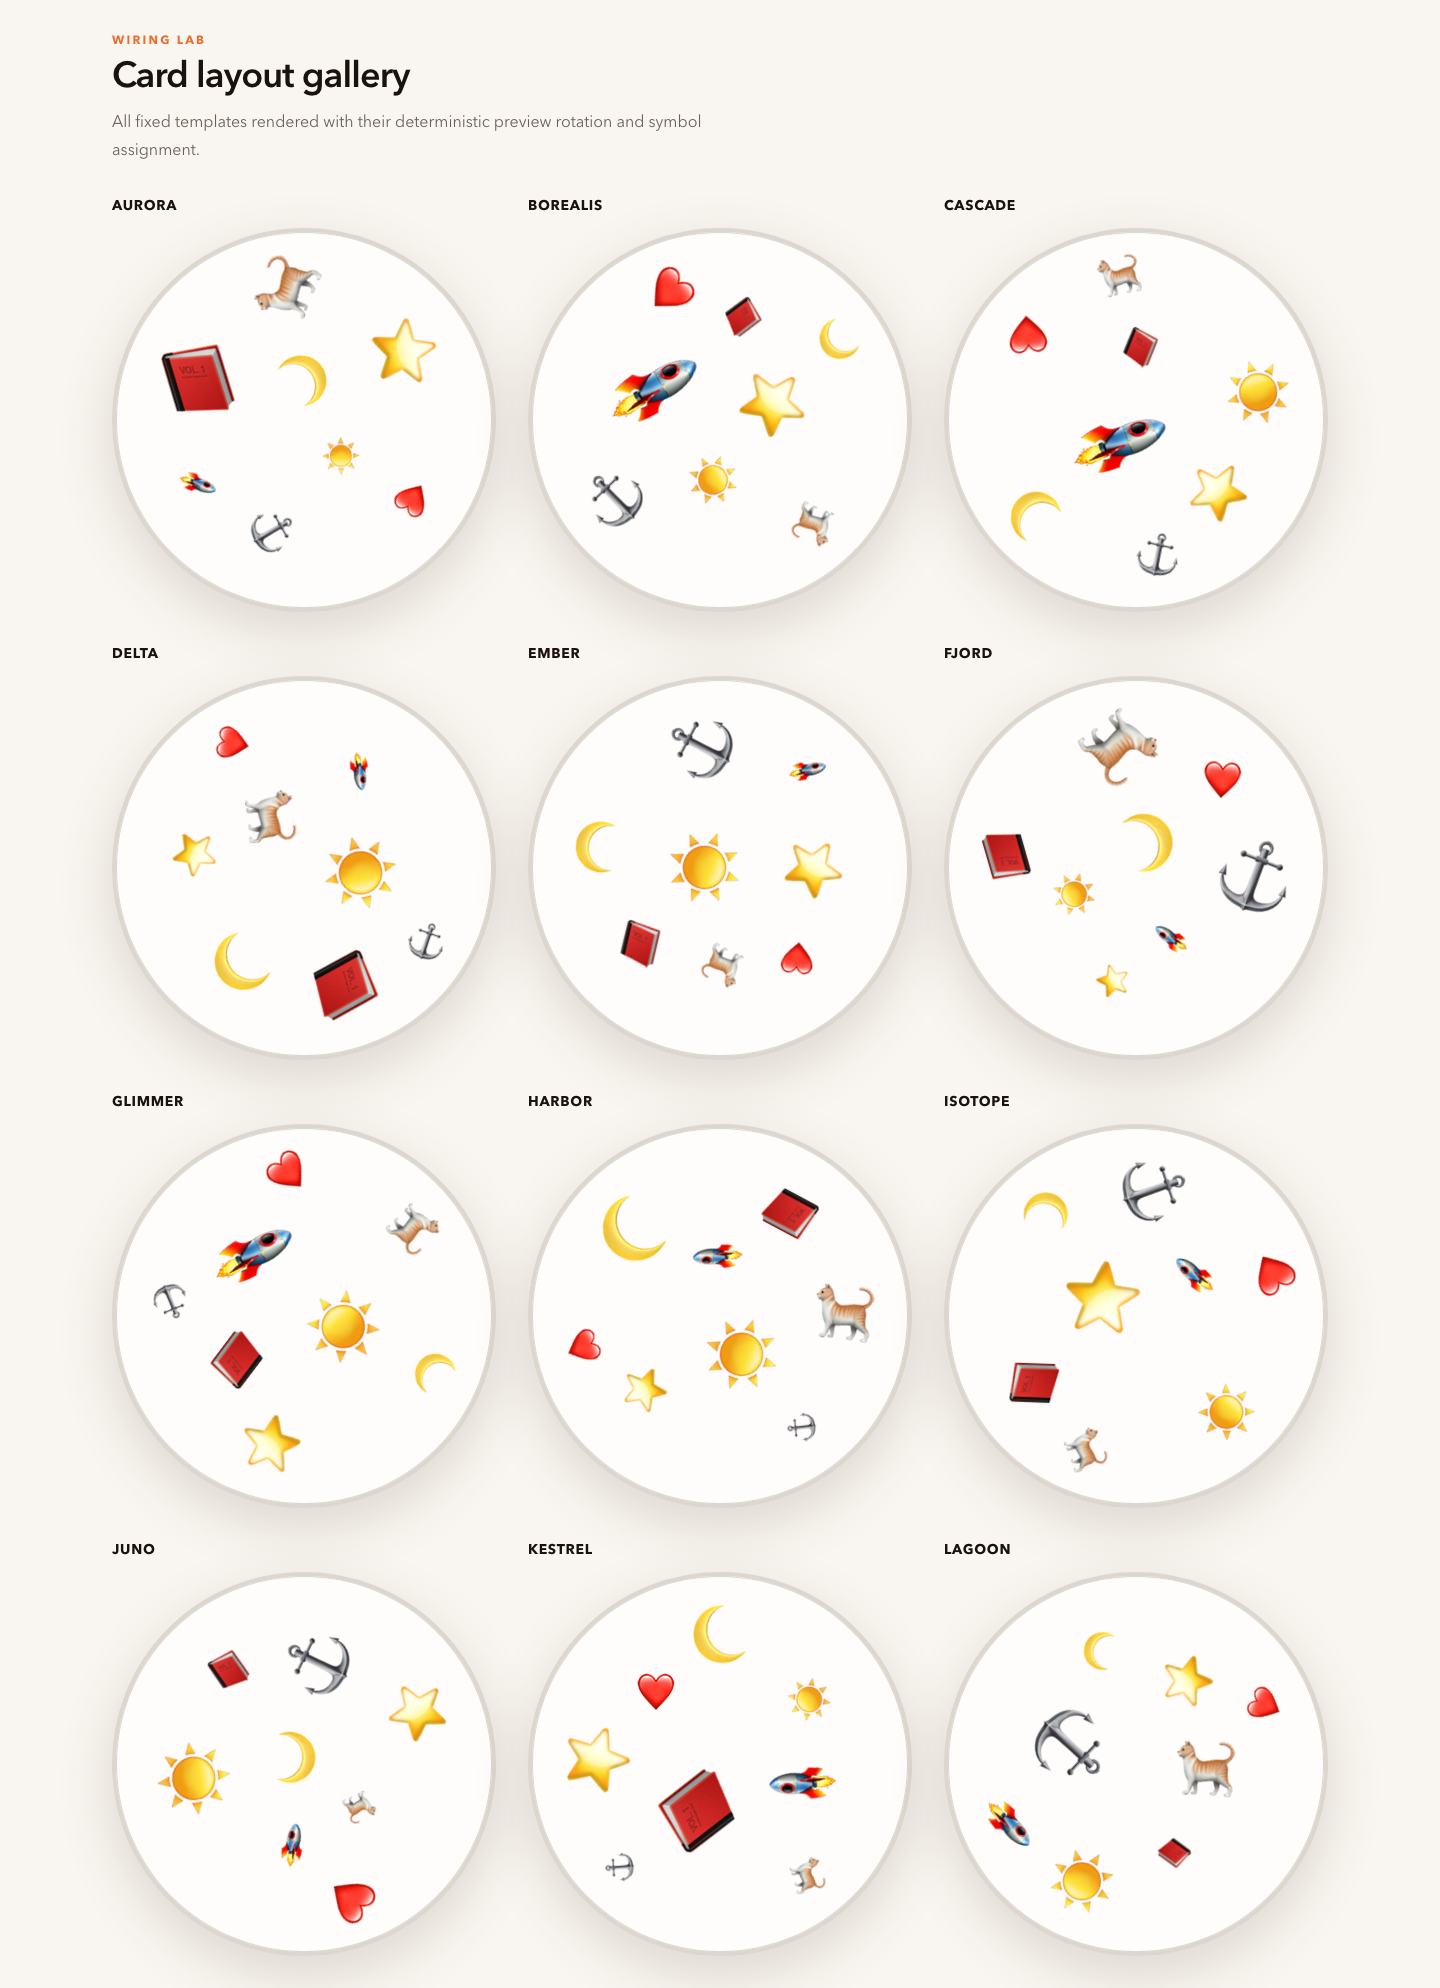
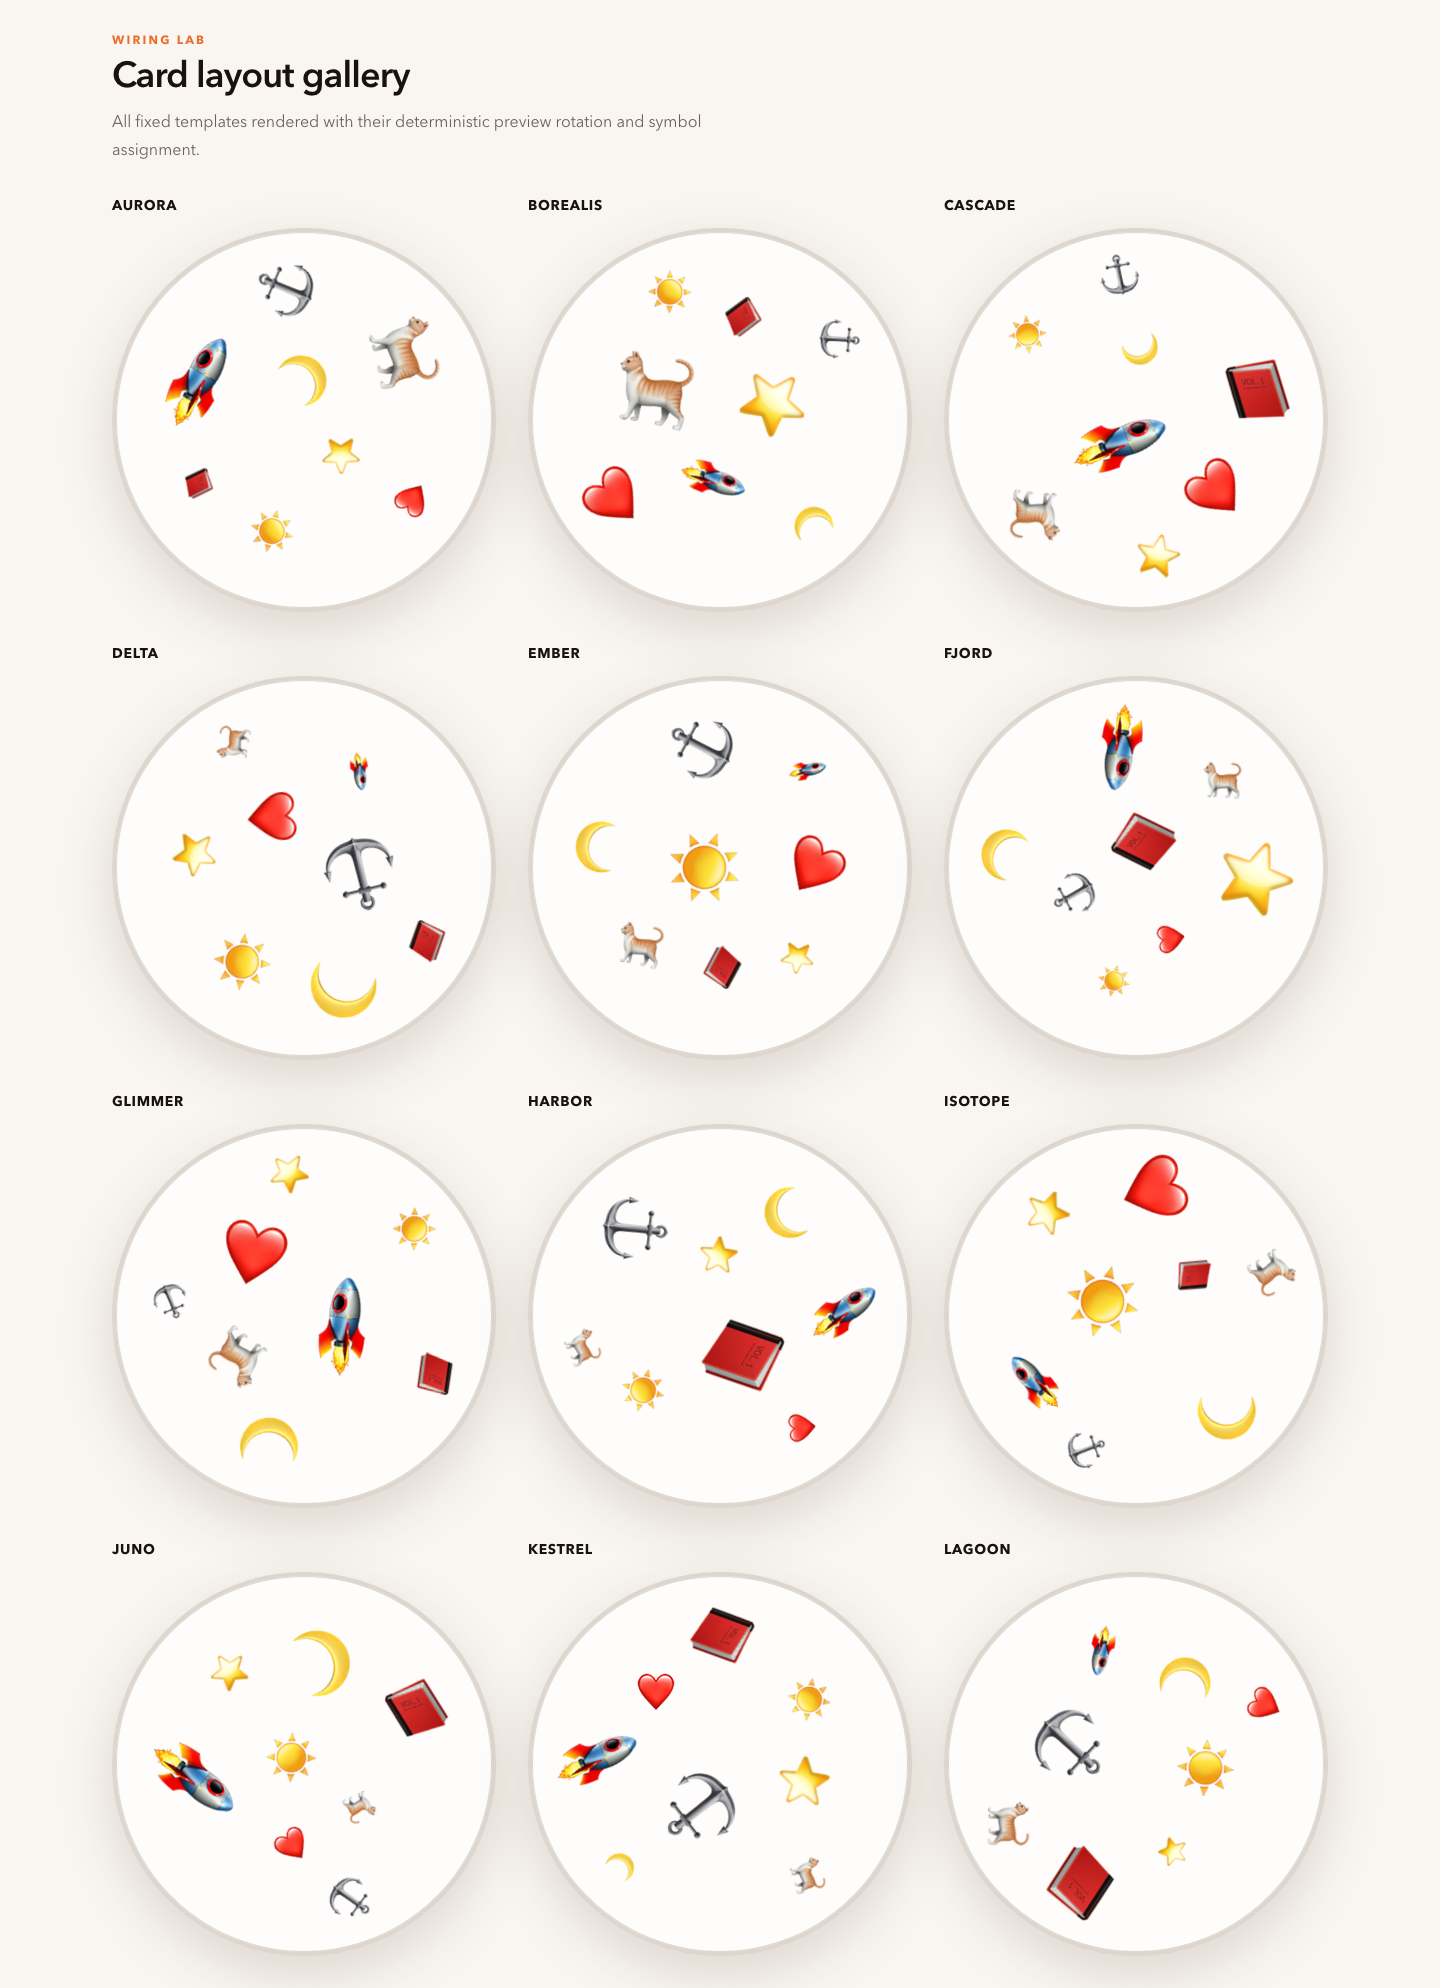
Address layout review feedback

diff --git a/lib/card-layout.test.ts b/lib/card-layout.test.ts
@@ -42,7 +42,7 @@ const cards = [
 describe('card layout templates', () => {
   it('ships twelve distinct, collision-free eight-symbol templates', () => {
     expect(CARD_LAYOUT_TEMPLATES).toHaveLength(12)
-    expect(new Set(CARD_LAYOUT_TEMPLATES.map(({ id }) => id))).toHaveLength(12)
+    expect(new Set(CARD_LAYOUT_TEMPLATES.map(({ id }) => id)).size).toBe(12)
 
     for (const layoutTemplate of CARD_LAYOUT_TEMPLATES) {
       expect(validateCardLayoutTemplate(layoutTemplate)).toEqual([])

diff --git a/lib/card-layout.ts b/lib/card-layout.ts
@@ -341,7 +341,7 @@ function shuffleIndexes(length: number, seed: string): number[] {
 
   for (let index = indexes.length - 1; index > 0; index -= 1) {
     state = nextRandomState(state)
-    const swapIndex = state % (index + 1)
+    const swapIndex = Math.floor((state * (index + 1)) / 0x1_0000_0000)
     const currentValue = indexes[index]
     const swapValue = indexes[swapIndex]
 

diff --git a/docs/architecture/card-layout-templates.md b/docs/architecture/card-layout-templates.md
@@ -29,7 +29,8 @@ margin.
 
 Generation never runs in the browser. Candidate output must be visually
 reviewed before it is copied into `CARD_LAYOUT_TEMPLATES`. The committed data is
-then protected by unit tests that require:
+validated immediately after rounding and curated overrides, before it is
+printed, and is then protected by unit tests that require:
 
 - exactly eight slots per template;
 - a 48px target at the smallest supported card diameter;
